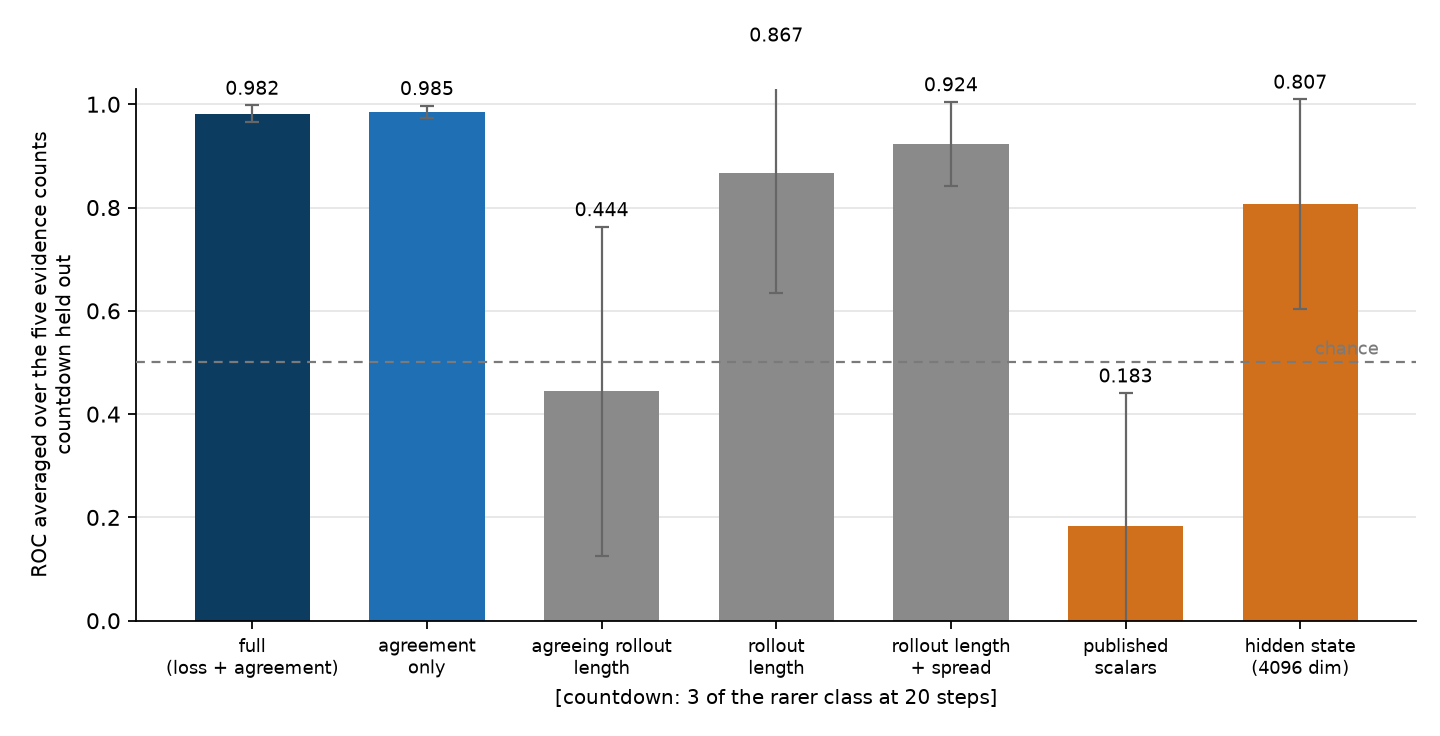
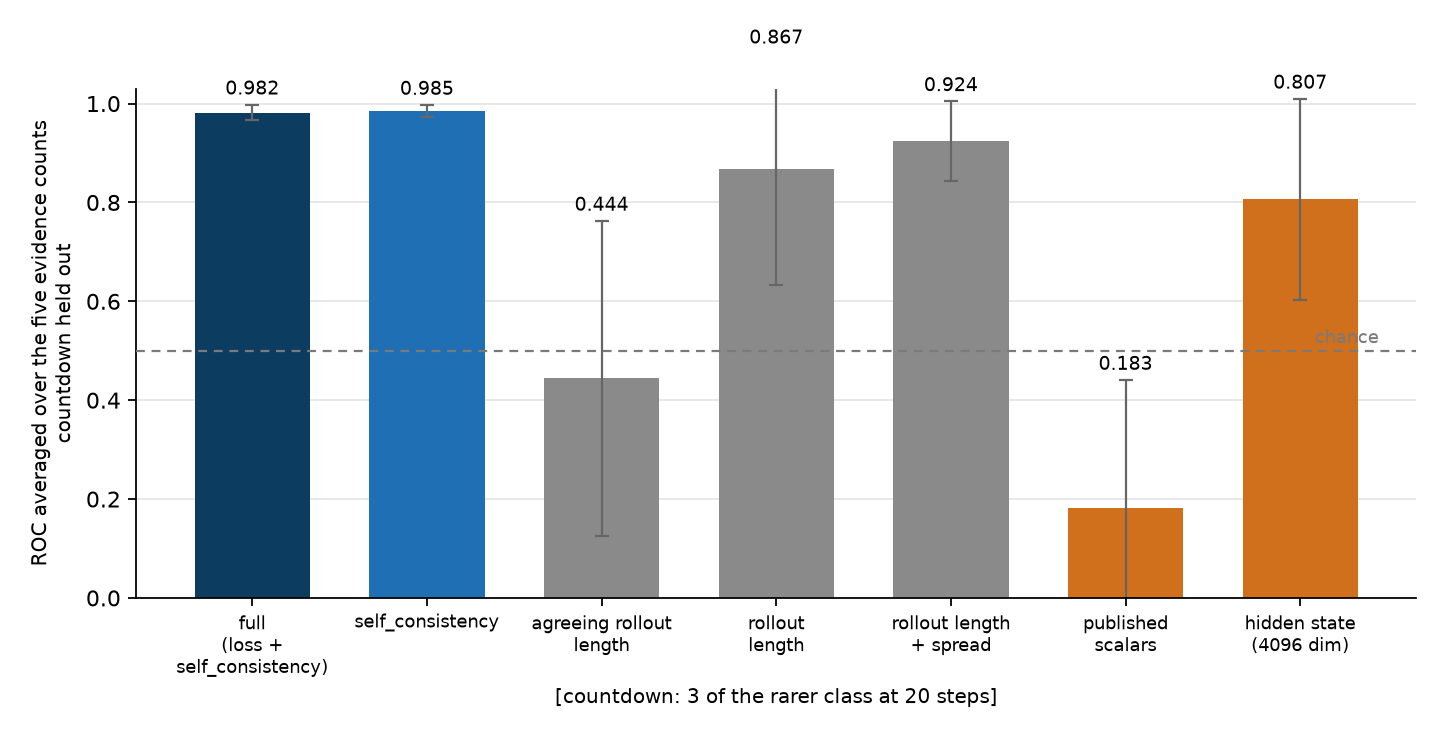
fix name label in plot

diff --git a/src/diffusion_decision_model/ablation_plots.py b/src/diffusion_decision_model/ablation_plots.py
@@ -235,7 +235,7 @@ def plot_ece_against_evidence_count(out_directory, held_out = None, label = None
 
 def plot_feature_sets(out_directory, held_out = None, label = None):
     """Which numbers actually carry the signal, and which are just length."""
-    labels = ['full\n(loss + agreement)', 'agreement\nonly', 'agreeing rollout\nlength',
+    labels = ['full\n(loss +\nself_consistency)', 'self_consistency', 'agreeing rollout\nlength',
               'rollout\nlength', 'rollout length\n+ spread', 'published\nscalars', 'hidden state\n(4096 dim)']
     setting, note = describe(held_out, label)
 
